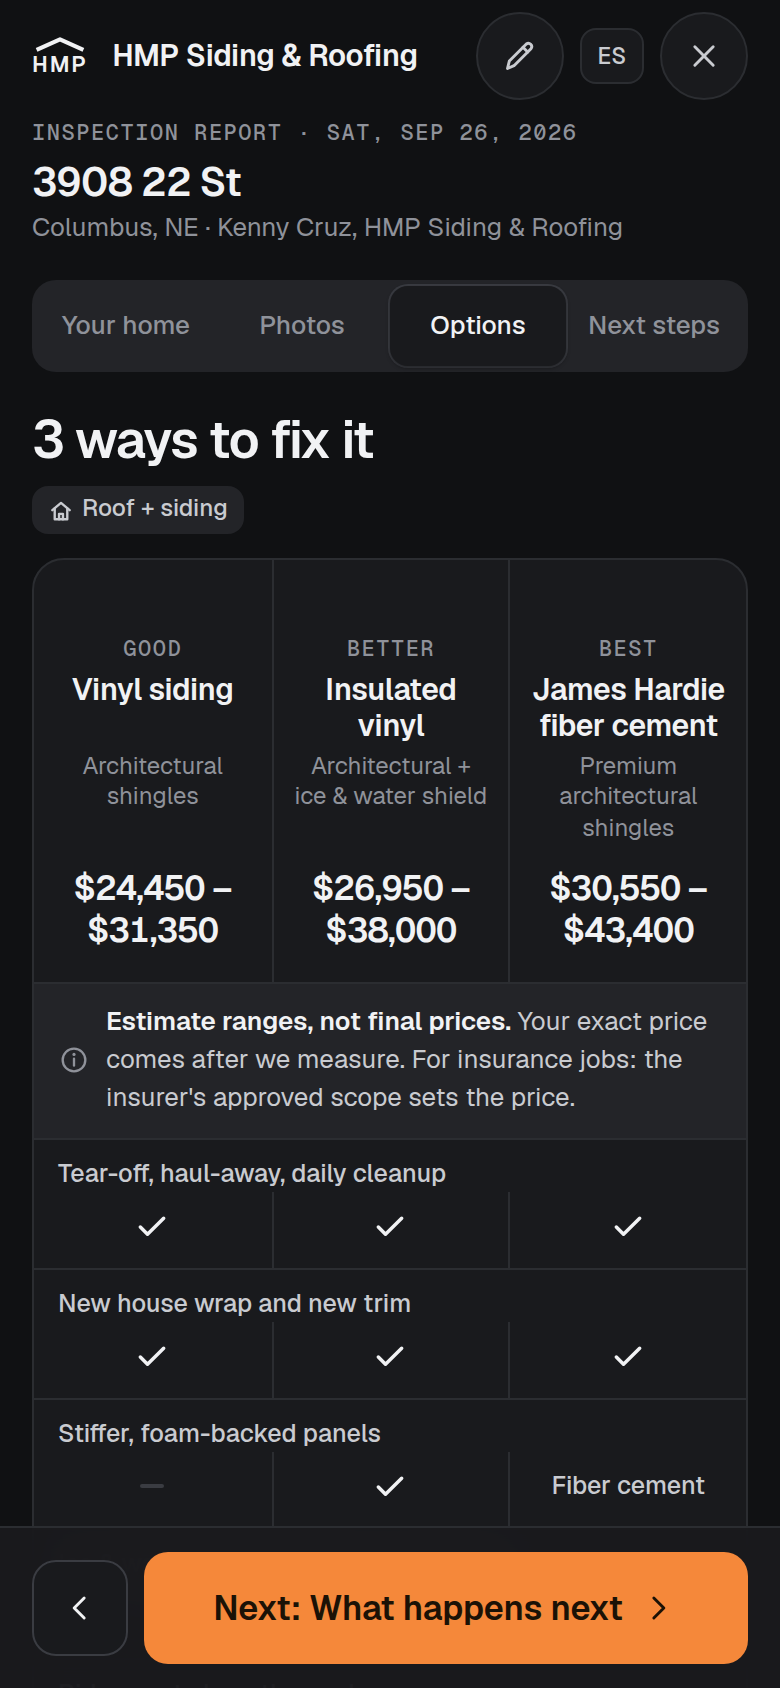
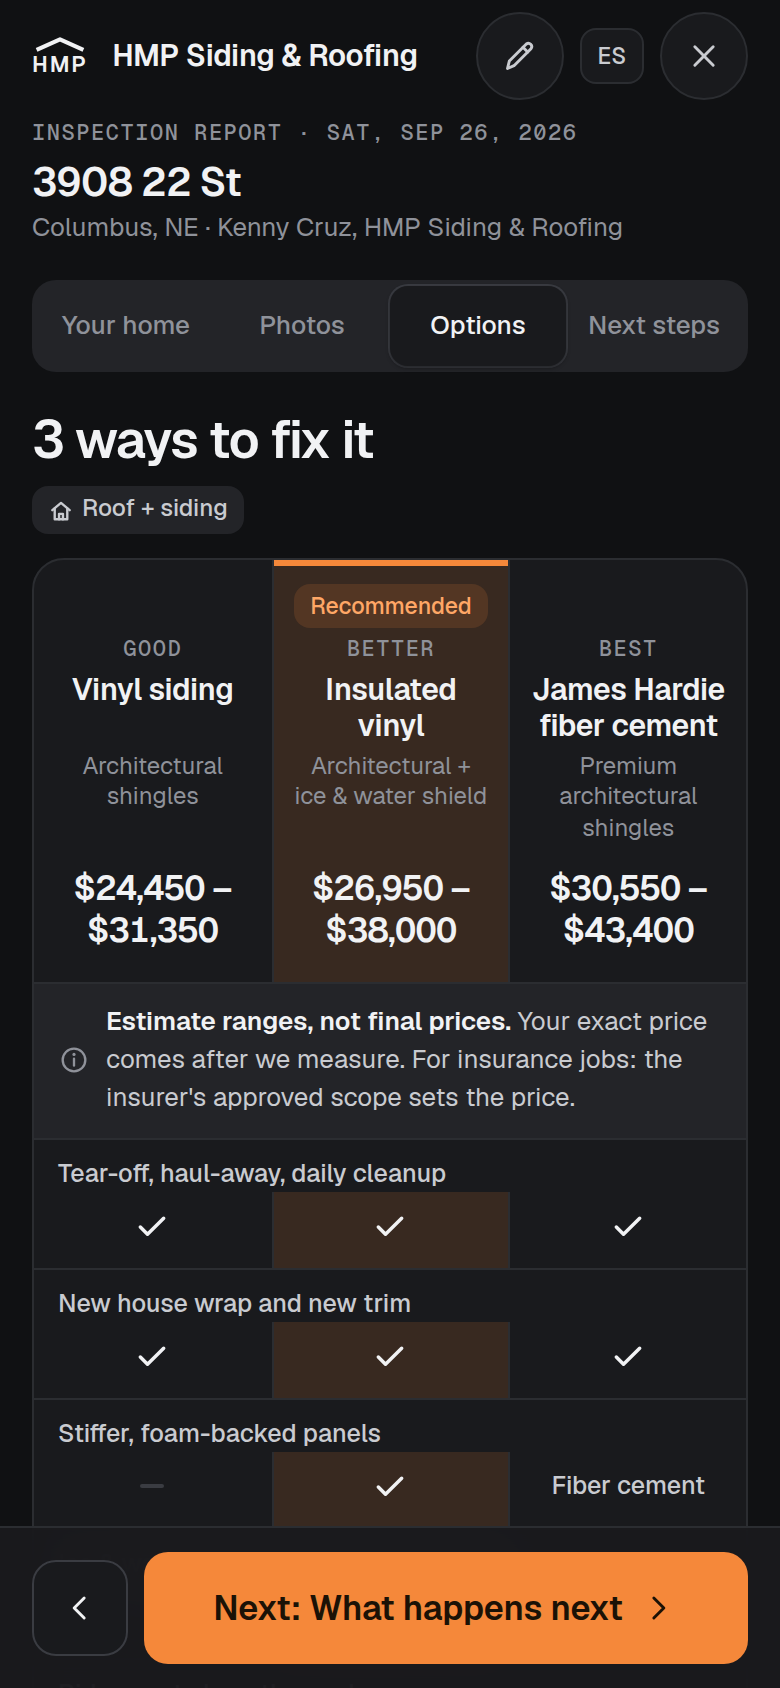
v25 WIP: builder's in-progress files (safety snapshot)
Claude-Session: https://claude.ai/code/session_01CqR6V6VHe8sf2mjYY5dJCv

Changed region(s): [[0.3385, 0.3081, 0.6769, 0.5853], [0.3385, 0.7085, 0.6769, 0.8318], [0.3385, 0.8626, 0.6769, 0.9242]]

diff --git a/tests/pages/v25_shots.js b/tests/pages/v25_shots.js
@@ -57,7 +57,8 @@ function data(opts = {}) {
       next_step: { en: "Go over the photos at the table", es: "Revisar las fotos en la mesa", due: "2026-09-27" }, created_at: "2026-09-26T15:00:00Z", updated_at: "2026-09-26T17:00:00Z",
       photos: [ph("hoRoof0001", "roof", [[31.3, 41.7, 7.6], [58.3, 58.3, 6.4], [71.9, 34.7, 7]]), ph("hoSquare01", "sqWide", []), ph("hoVent0001", "metals", [[39.6, 38.9, 8.1], [58.3, 34.7, 6.5], [49, 58.3, 9.2], [66.7, 62.5, 6]]),
         ph("hoGutter01", "gutters", [[26, 48.6, 11.3], [43.8, 45.8, 8.7], [62.5, 51.4, 10]]), ph("hoSiding01", "siding", [[54, 44, 16], [68.5, 67, 7]])],
-      estimate: { low: 25000, high: 48000, at: "2026-09-26T17:00:00Z", job: { type: "mixed", siding_squares: 18, roof_squares: 22, stories: 1, pitch: "std" } } };
+      estimate: { low: 25000, high: 48000, at: "2026-09-26T17:00:00Z", job: { type: "mixed", siding_squares: 18, roof_squares: 22, stories: 1, pitch: "std" } },
+      proposal: { scope: "both", tiers: [], recommended: "better", chosen: null, at: "2026-09-26T17:05:00Z", using_reference: true } };
     C.evidence = Object.assign({}, C.evidence, { "3908-22-st-columbus": { day: "2026-08-08", hail_in: 1.64, radar_max_in: 1.75, nearest_report: { dist_mi: 0.6, size_in: 1.5, source: "lsr" } } });
     D["system/prices"] = JSON.parse(fs.readFileSync(path.join(__dirname, "v25_prices.json"), "utf8"));
   }

diff --git a/pages/hmp-app.html b/pages/hmp-app.html
@@ -196,6 +196,9 @@ button.row,a.row{cursor:pointer;text-decoration:none;background:none}
 .btn.danger{background:var(--late);color:var(--on-ink)}
 .btn.go{background:var(--hmp);color:var(--on-hmp);border:0}   /* older sheets' primary */
 .btn.go:disabled{background:var(--soft);color:var(--muted)}
+.ns-done{display:flex;align-items:center;justify-content:center;width:100%;min-height:var(--hit);padding:var(--s2) var(--s5);border-radius:var(--r-md);background:var(--hmp);color:var(--on-hmp);font-weight:600;font-size:var(--t-body);text-align:center}
+.ns-done:active{background:var(--hmp-press)}
+.ns-done:disabled{background:var(--soft);color:var(--muted);box-shadow:inset 0 0 0 1px var(--line-2)}
 .kdone{display:flex;align-items:center;gap:var(--s3);padding:var(--s4);border-radius:var(--r-lg);background:var(--ok-bg);color:var(--ok);font-weight:600;margin-top:var(--s3)}
 .kdone .i{flex:none}
 .klist .row{min-height:56px}
